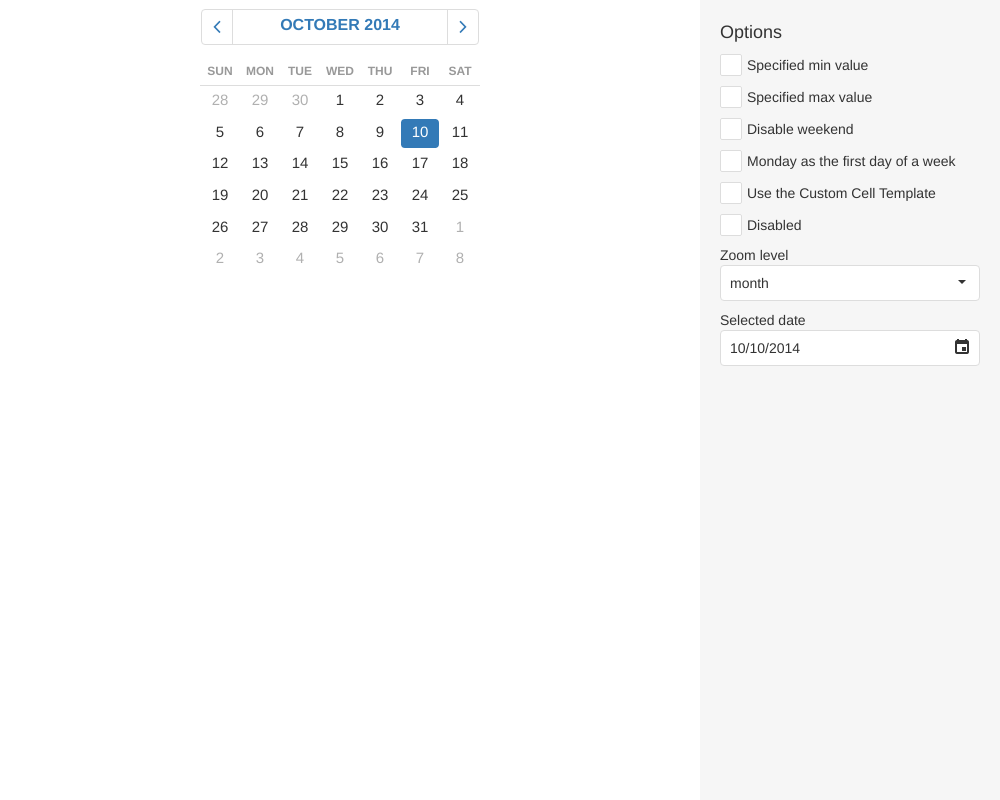
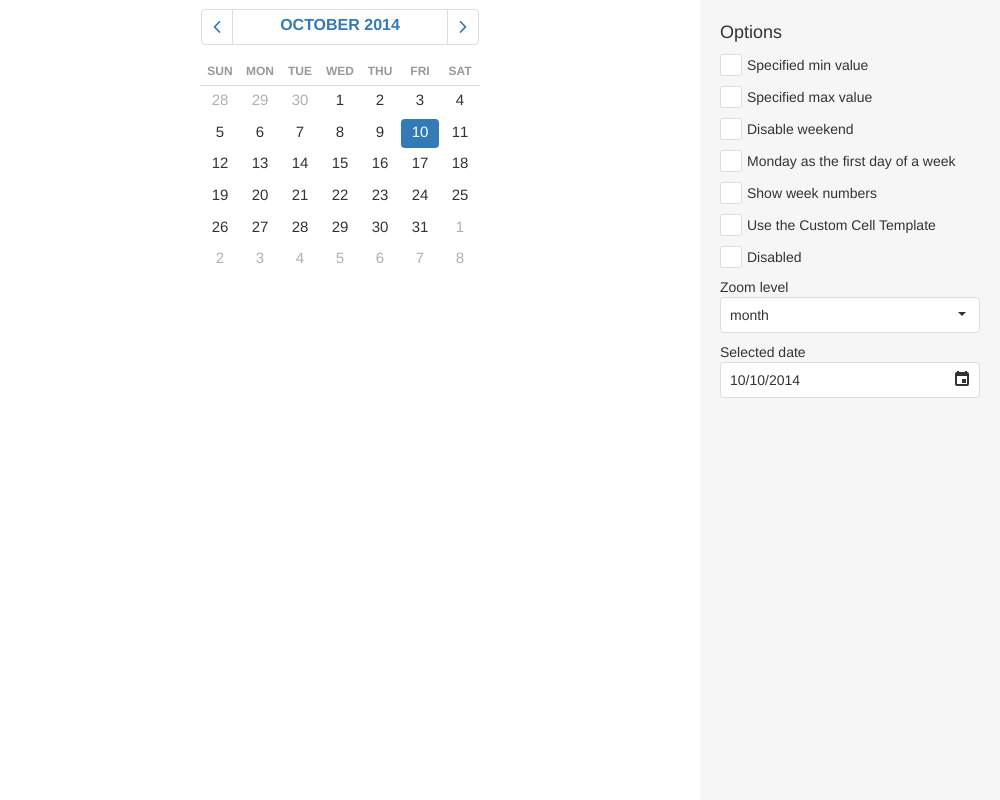
Calendar: add showWeekNumbers in demo (#2012)

Changed region(s): [[0.713, 0.2188, 0.93, 0.5], [0.93, 0.4062, 0.992, 0.5], [0.899, 0.2812, 0.93, 0.3125]]

diff --git a/JSDemos/Demos/Calendar/Overview/React/App.js b/JSDemos/Demos/Calendar/Overview/React/App.js
@@ -14,6 +14,7 @@ class App extends React.Component {
       maxDateValue: null,
       disabledDates: null,
       firstDay: 0,
+      showWeekNumbers: false,
       currentValue: new Date(),
       cellTemplate: null,
       disabled: false,
@@ -27,6 +28,7 @@ class App extends React.Component {
     this.setMaxDate = this.setMaxDate.bind(this);
     this.disableWeekend = this.disableWeekend.bind(this);
     this.setFirstDay = this.setFirstDay.bind(this);
+    this.setShowWeekNumbers = this.setShowWeekNumbers.bind(this);
     this.useCellTemplate = this.useCellTemplate.bind(this);
   }
 
@@ -37,6 +39,7 @@ class App extends React.Component {
       maxDateValue,
       disabledDates,
       firstDay,
+      showWeekNumbers,
       disabled,
       zoomLevel,
       cellTemplate,
@@ -53,6 +56,7 @@ class App extends React.Component {
             max={maxDateValue}
             disabledDates={disabledDates}
             firstDayOfWeek={firstDay}
+            showWeekNumbers={showWeekNumbers}
             disabled={disabled}
             zoomLevel={zoomLevel}
             cellRender={cellTemplate} />
@@ -82,6 +86,12 @@ class App extends React.Component {
               defaultValue={false}
               text="Monday as the first day of a week"
               onValueChanged={this.setFirstDay} />
+          </div>
+          <div className="option">
+            <CheckBox
+              defaultValue={false}
+              text="Show week numbers"
+              onValueChanged={this.setShowWeekNumbers} />
           </div>
           <div className="option">
             <CheckBox
@@ -166,6 +176,12 @@ class App extends React.Component {
     });
   }
 
+  setShowWeekNumbers(e) {
+    this.setState({
+      showWeekNumbers: e.value,
+    });
+  }
+
   useCellTemplate(e) {
     this.setState({
       cellTemplate: e.value ? CustomCell : null,
@@ -186,13 +202,17 @@ function getCellCssClass({ date, view }) {
   const holydays = [[1, 0], [4, 6], [25, 11]];
 
   if (view === 'month') {
-    if (isWeekend(date)) { cssClass = 'weekend'; }
+    if (!date) {
+      cssClass = 'week-number';
+    } else {
+      if (isWeekend(date)) { cssClass = 'weekend'; }
 
-    holydays.forEach((item) => {
-      if (date.getDate() === item[0] && date.getMonth() === item[1]) {
-        cssClass = 'holyday';
-      }
-    });
+      holydays.forEach((item) => {
+        if (date.getDate() === item[0] && date.getMonth() === item[1]) {
+          cssClass = 'holyday';
+        }
+      });
+    }
   }
 
   return cssClass;

diff --git a/JSDemos/Demos/Calendar/Overview/Vue/App.vue b/JSDemos/Demos/Calendar/Overview/Vue/App.vue
@@ -8,6 +8,7 @@
         :max="maxDateValue"
         :disabled-dates="disabledDates"
         :first-day-of-week="firstDay"
+        :show-week-numbers="showWeekNumbers"
         :disabled="disabled"
         :zoom-level="zoomLevel"
         :cell-template="cellTemplate"
@@ -47,6 +48,13 @@
           :value="false"
           text="Monday as the first day of a week"
           @value-changed="setFirstDay"
+        />
+      </div>
+      <div class="option">
+        <DxCheckBox
+          :value="false"
+          text="Show week numbers"
+          @value-changed="setShowWeekNumbers"
         />
       </div>
       <div class="option">
@@ -100,6 +108,7 @@ export default {
       maxDateValue: null,
       disabledDates: null,
       firstDay: 0,
+      showWeekNumbers: false,
       currentValue: new Date(),
       zoomLevels: ['month', 'year', 'decade', 'century'],
       cellTemplate: 'cell',
@@ -140,6 +149,9 @@ export default {
         this.firstDay = 0;
       }
     },
+    setShowWeekNumbers(e) {
+      this.showWeekNumbers = e.value;
+    },
     useCellTemplate(e) {
       if (e.value) {
         this.cellTemplate = 'custom';
@@ -152,13 +164,17 @@ export default {
       const holydays = [[1, 0], [4, 6], [25, 11]];
 
       if (view === 'month') {
-        if (this.isWeekend(date)) { cssClass = 'weekend'; }
+        if (!date) {
+          cssClass = 'week-number';
+        } else {
+          if (this.isWeekend(date)) { cssClass = 'weekend'; }
 
-        holydays.forEach((item) => {
-          if (date.getDate() === item[0] && date.getMonth() === item[1]) {
-            cssClass = 'holyday';
-          }
-        });
+          holydays.forEach((item) => {
+            if (date.getDate() === item[0] && date.getMonth() === item[1]) {
+              cssClass = 'holyday';
+            }
+          });
+        }
       }
 
       return cssClass;
@@ -195,6 +211,10 @@ export default {
 
 .dx-state-disabled.dx-calendar .dx-calendar-cell:not(.dx-calendar-other-month) .holyday {
   color: #ff8080;
+}
+
+.dx-calendar-week-number-cell .week-number {
+  font-style: italic;
 }
 
 .options {

diff --git a/JSDemos/Demos/Calendar/Overview/jQuery/index.js b/JSDemos/Demos/Calendar/Overview/jQuery/index.js
@@ -6,6 +6,7 @@ $(() => {
     value: new Date(),
     disabled: false,
     firstDayOfWeek: 0,
+    showWeekNumbers: false,
     zoomLevel: zoomLevels[0],
     onValueChanged(data) {
       selectedDate.option('value', data.value);
@@ -61,6 +62,13 @@ $(() => {
     },
   });
 
+  $('#week-numbers').dxCheckBox({
+    text: 'Show week numbers',
+    onValueChanged(data) {
+      calendar.option('showWeekNumbers', data.value);
+    },
+  });
+
   $('#disabled').dxCheckBox({
     text: 'Disabled',
     onValueChanged(data) {
@@ -104,15 +112,19 @@ $(() => {
     let cssClass = '';
 
     if (data.view === 'month') {
-      if (isWeekend(data.date)) { cssClass = 'weekend'; }
+      if (!data.date) {
+        cssClass = 'week-number';
+      } else {
+        if (isWeekend(data.date)) { cssClass = 'weekend'; }
 
-      $.each(holydays, (_, item) => {
-        if (data.date.getDate() === item[0] && data.date.getMonth() === item[1]) {
-          cssClass = 'holyday';
-          return false;
-        }
-        return true;
-      });
+        $.each(holydays, (_, item) => {
+          if (data.date.getDate() === item[0] && data.date.getMonth() === item[1]) {
+            cssClass = 'holyday';
+            return false;
+          }
+          return true;
+        });
+      }
     }
 
     return `<span class='${cssClass}'>${data.text}</span>`;

diff --git a/JSDemos/Demos/Calendar/Overview/Angular/app/app.component.ts b/JSDemos/Demos/Calendar/Overview/Angular/app/app.component.ts
@@ -26,6 +26,8 @@ export class AppComponent {
 
   firstDay = 0;
 
+  showWeekNumbers = false;
+
   minDateValue: Date | null = null;
 
   maxDateValue: Date | null = null;
@@ -81,6 +83,10 @@ export class AppComponent {
     }
   }
 
+  setShowWeekNumbers(e) {
+    this.showWeekNumbers = e.value;
+  }
+
   useCellTemplate(e) {
     if (e.value) {
       this.cellTemplate = 'custom';
@@ -93,14 +99,18 @@ export class AppComponent {
     let cssClass = '';
 
     if (view === 'month') {
-      if (this.isWeekend(date)) { cssClass = 'weekend'; }
+      if (!date) {
+        cssClass = 'week-number';
+      } else {
+        if (this.isWeekend(date)) { cssClass = 'weekend'; }
 
-      this.holydays.forEach((item) => {
-        if (date.getDate() === item[0] && date.getMonth() === item[1]) {
-          cssClass = 'holyday';
-          return false;
-        }
-      });
+        this.holydays.forEach((item) => {
+          if (date.getDate() === item[0] && date.getMonth() === item[1]) {
+            cssClass = 'holyday';
+            return false;
+          }
+        });
+      }
     }
 
     return cssClass;

diff --git a/JSDemos/Demos/Calendar/Overview/Angular/app/app.component.html b/JSDemos/Demos/Calendar/Overview/Angular/app/app.component.html
@@ -7,6 +7,7 @@
       [max]="maxDateValue"
       [disabledDates]="disabledDates"
       [firstDayOfWeek]="firstDay"
+      [showWeekNumbers]="showWeekNumbers"
       [disabled]="false"
       [(value)]="currentValue"
       [zoomLevel]="zoomLevels[0]"
@@ -51,6 +52,14 @@
         text="Monday as the first day of a week"
         [value]="false"
         (onValueChanged)="setFirstDay($event)"
+      >
+      </dx-check-box>
+    </div>
+    <div class="option">
+      <dx-check-box
+        text="Show week numbers"
+        [value]="false"
+        (onValueChanged)="setShowWeekNumbers($event)"
       >
       </dx-check-box>
     </div>

diff --git a/JSDemos/Demos/Calendar/Overview/jQuery/index.html b/JSDemos/Demos/Calendar/Overview/jQuery/index.html
@@ -33,6 +33,9 @@
             <div id="first-day"></div>
           </div>
           <div class="option">
+            <div id="week-numbers"></div>
+          </div>
+          <div class="option">
             <div id="custom-cell"></div>
           </div>
           <div class="option">

diff --git a/JSDemos/Demos/Calendar/Overview/Angular/app/app.component.css b/JSDemos/Demos/Calendar/Overview/Angular/app/app.component.css
@@ -28,6 +28,10 @@
   color: #ff8080;
 }
 
+::ng-deep .dx-calendar-week-number-cell .week-number {
+  font-style: italic;
+}
+
 ::ng-deep .options {
   padding: 20px;
   background-color: rgba(191, 191, 191, 0.15);

diff --git a/MVCDemos/Content/DemosStyles/Calendar/Overview.css b/MVCDemos/Content/DemosStyles/Calendar/Overview.css
@@ -28,6 +28,10 @@
     color: #FF8080;
 }
 
+.dx-calendar-week-number-cell .week-number {
+    font-style: italic;
+}
+
 .options {
     padding: 20px;
     background-color: rgba(191, 191, 191, 0.15);

diff --git a/NetCoreDemos/wwwroot/css/DemosStyles/Calendar/Overview.css b/NetCoreDemos/wwwroot/css/DemosStyles/Calendar/Overview.css
@@ -28,6 +28,10 @@
     color: #FF8080;
 }
 
+.dx-calendar-week-number-cell .week-number {
+    font-style: italic;
+}
+
 .options {
     padding: 20px;
     background-color: rgba(191, 191, 191, 0.15);

diff --git a/JSDemos/Demos/Calendar/Overview/React/styles.css b/JSDemos/Demos/Calendar/Overview/React/styles.css
@@ -28,6 +28,10 @@
   color: #ff8080;
 }
 
+.dx-calendar-week-number-cell .week-number {
+  font-style: italic;
+}
+
 .options {
   padding: 20px;
   background-color: rgba(191, 191, 191, 0.15);

diff --git a/JSDemos/Demos/Calendar/Overview/jQuery/styles.css b/JSDemos/Demos/Calendar/Overview/jQuery/styles.css
@@ -28,6 +28,10 @@
   color: #ff8080;
 }
 
+.dx-calendar-week-number-cell .week-number {
+  font-style: italic;
+}
+
 .options {
   padding: 20px;
   background-color: rgba(191, 191, 191, 0.15);
